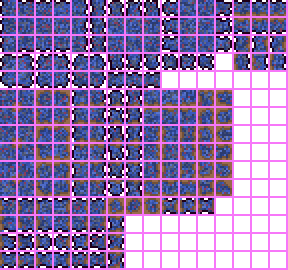
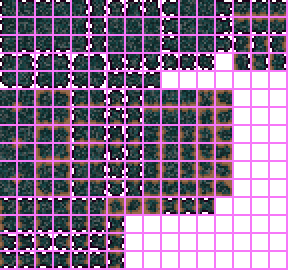
chagned dirt graphic and added stone to spawn alongside it

diff --git a/Content/WorldGeneration/VoyagerModBiomePass.cs b/Content/WorldGeneration/VoyagerModBiomePass.cs
@@ -5,7 +5,7 @@ using Terraria.WorldBuilding;
 using Terraria.IO;
 using VoyagerMod.Content.Tiles;
 using Terraria.ModLoader;
-using VoyagerMod.Content.Tiles.Plants;
+using Microsoft.Xna.Framework;
 
 namespace VoyagerMod.Content.WorldGeneration
 {
@@ -27,6 +27,25 @@ namespace VoyagerMod.Content.WorldGeneration
 			for (int i = 0; i < Main.maxTilesX; i++) {
 				for(int j = 80; j < 135; j++){
 					WorldGen.PlaceTile(i, j, ModContent.TileType<SpaceDirt>(), true);
+				}
+			}
+
+			//spawning space stone
+			for (int k = 0; k < (int)((Main.maxTilesX * Main.maxTilesY) * 9E-05); k++) {
+				int x = WorldGen.genRand.Next(12, Main.maxTilesX-12);
+				int y = WorldGen.genRand.Next(80, 138); 
+
+				int randW = WorldGen.genRand.Next(4, 10);
+				int randH = WorldGen.genRand.Next(4, 10);
+
+				Point point = new Point(x, y);
+				WorldUtils.Gen(point, new Shapes.Circle(randW, randH), new Actions.SetTile((ushort)ModContent.TileType<SpaceStone>()));
+			}
+
+			//removing excess stone
+			for (int i = 0; i < Main.maxTilesX; i++) {
+				for(int j = 50; j <= 79; j++){
+					WorldGen.KillTile(i, j, false, false, false);
 				}
 			}
 

diff --git a/Content/Items/Placeable/SpaceStone.cs b/Content/Items/Placeable/SpaceStone.cs
@@ -1,0 +1,29 @@
+using Terraria;
+using Terraria.ID;
+using Terraria.ModLoader;
+
+namespace VoyagerMod.Content.Items.Placeable
+{
+	public class SpaceStone : ModItem
+	{
+		public override void SetStaticDefaults() {
+			Item.ResearchUnlockCount = 100;
+			ItemID.Sets.ExtractinatorMode[Item.type] = Item.type;
+		}
+
+		public override void SetDefaults() {
+			Item.DefaultToPlaceableTile(ModContent.TileType<Tiles.SpaceStone>());
+			Item.width = 12;
+			Item.height = 12;
+		}
+
+		public override void ExtractinatorUse(int extractinatorBlockType, ref int resultType, ref int resultStack) { // Calls upon use of an extractinator. Below is the chance you will get ExampleOre from the extractinator.
+			if (Main.rand.NextBool(3)) {
+				resultType = ModContent.ItemType<MalachiteOre>();
+				if (Main.rand.NextBool(5)) {
+					resultStack += Main.rand.Next(2);
+				}
+			}
+		}
+	}
+}

diff --git a/Content/WorldGeneration/VoyagerModSystem.cs b/Content/WorldGeneration/VoyagerModSystem.cs
@@ -17,7 +17,7 @@ namespace VoyagerMod.Content.WorldGeneration
 		public static LocalizedText VoyagerModBiomePassMessage { get; private set; }
 
 		public override void SetStaticDefaults() {
-			VoyagerModBiomePassMessage = Language.GetOrRegister(Mod.GetLocalizationKey($"WorldGen.{nameof(VoyagerModBiomePassMessage)}"));
+			VoyagerModBiomePassMessage = Language.GetOrRegister(Mod.GetLocalizationKey("Generating a Bigger Space..."));
 		}
 
 		// 4. We use the ModifyWorldGenTasks method to tell the game the order that our world generation code should run

diff --git a/Content/Tiles/SpaceStone.cs b/Content/Tiles/SpaceStone.cs
@@ -1,0 +1,16 @@
+using Microsoft.Xna.Framework;
+using Terraria;
+using Terraria.ModLoader;
+
+namespace VoyagerMod.Content.Tiles
+{
+	public class SpaceStone : ModTile
+	{
+		public override void SetStaticDefaults() {
+			Main.tileSolid[Type] = true;
+			Main.tileMergeDirt[Type] = true;
+			Main.tileBlockLight[Type] = true;
+			AddMapEntry(new Color(300, 300, 300));
+		}
+	}
+}
